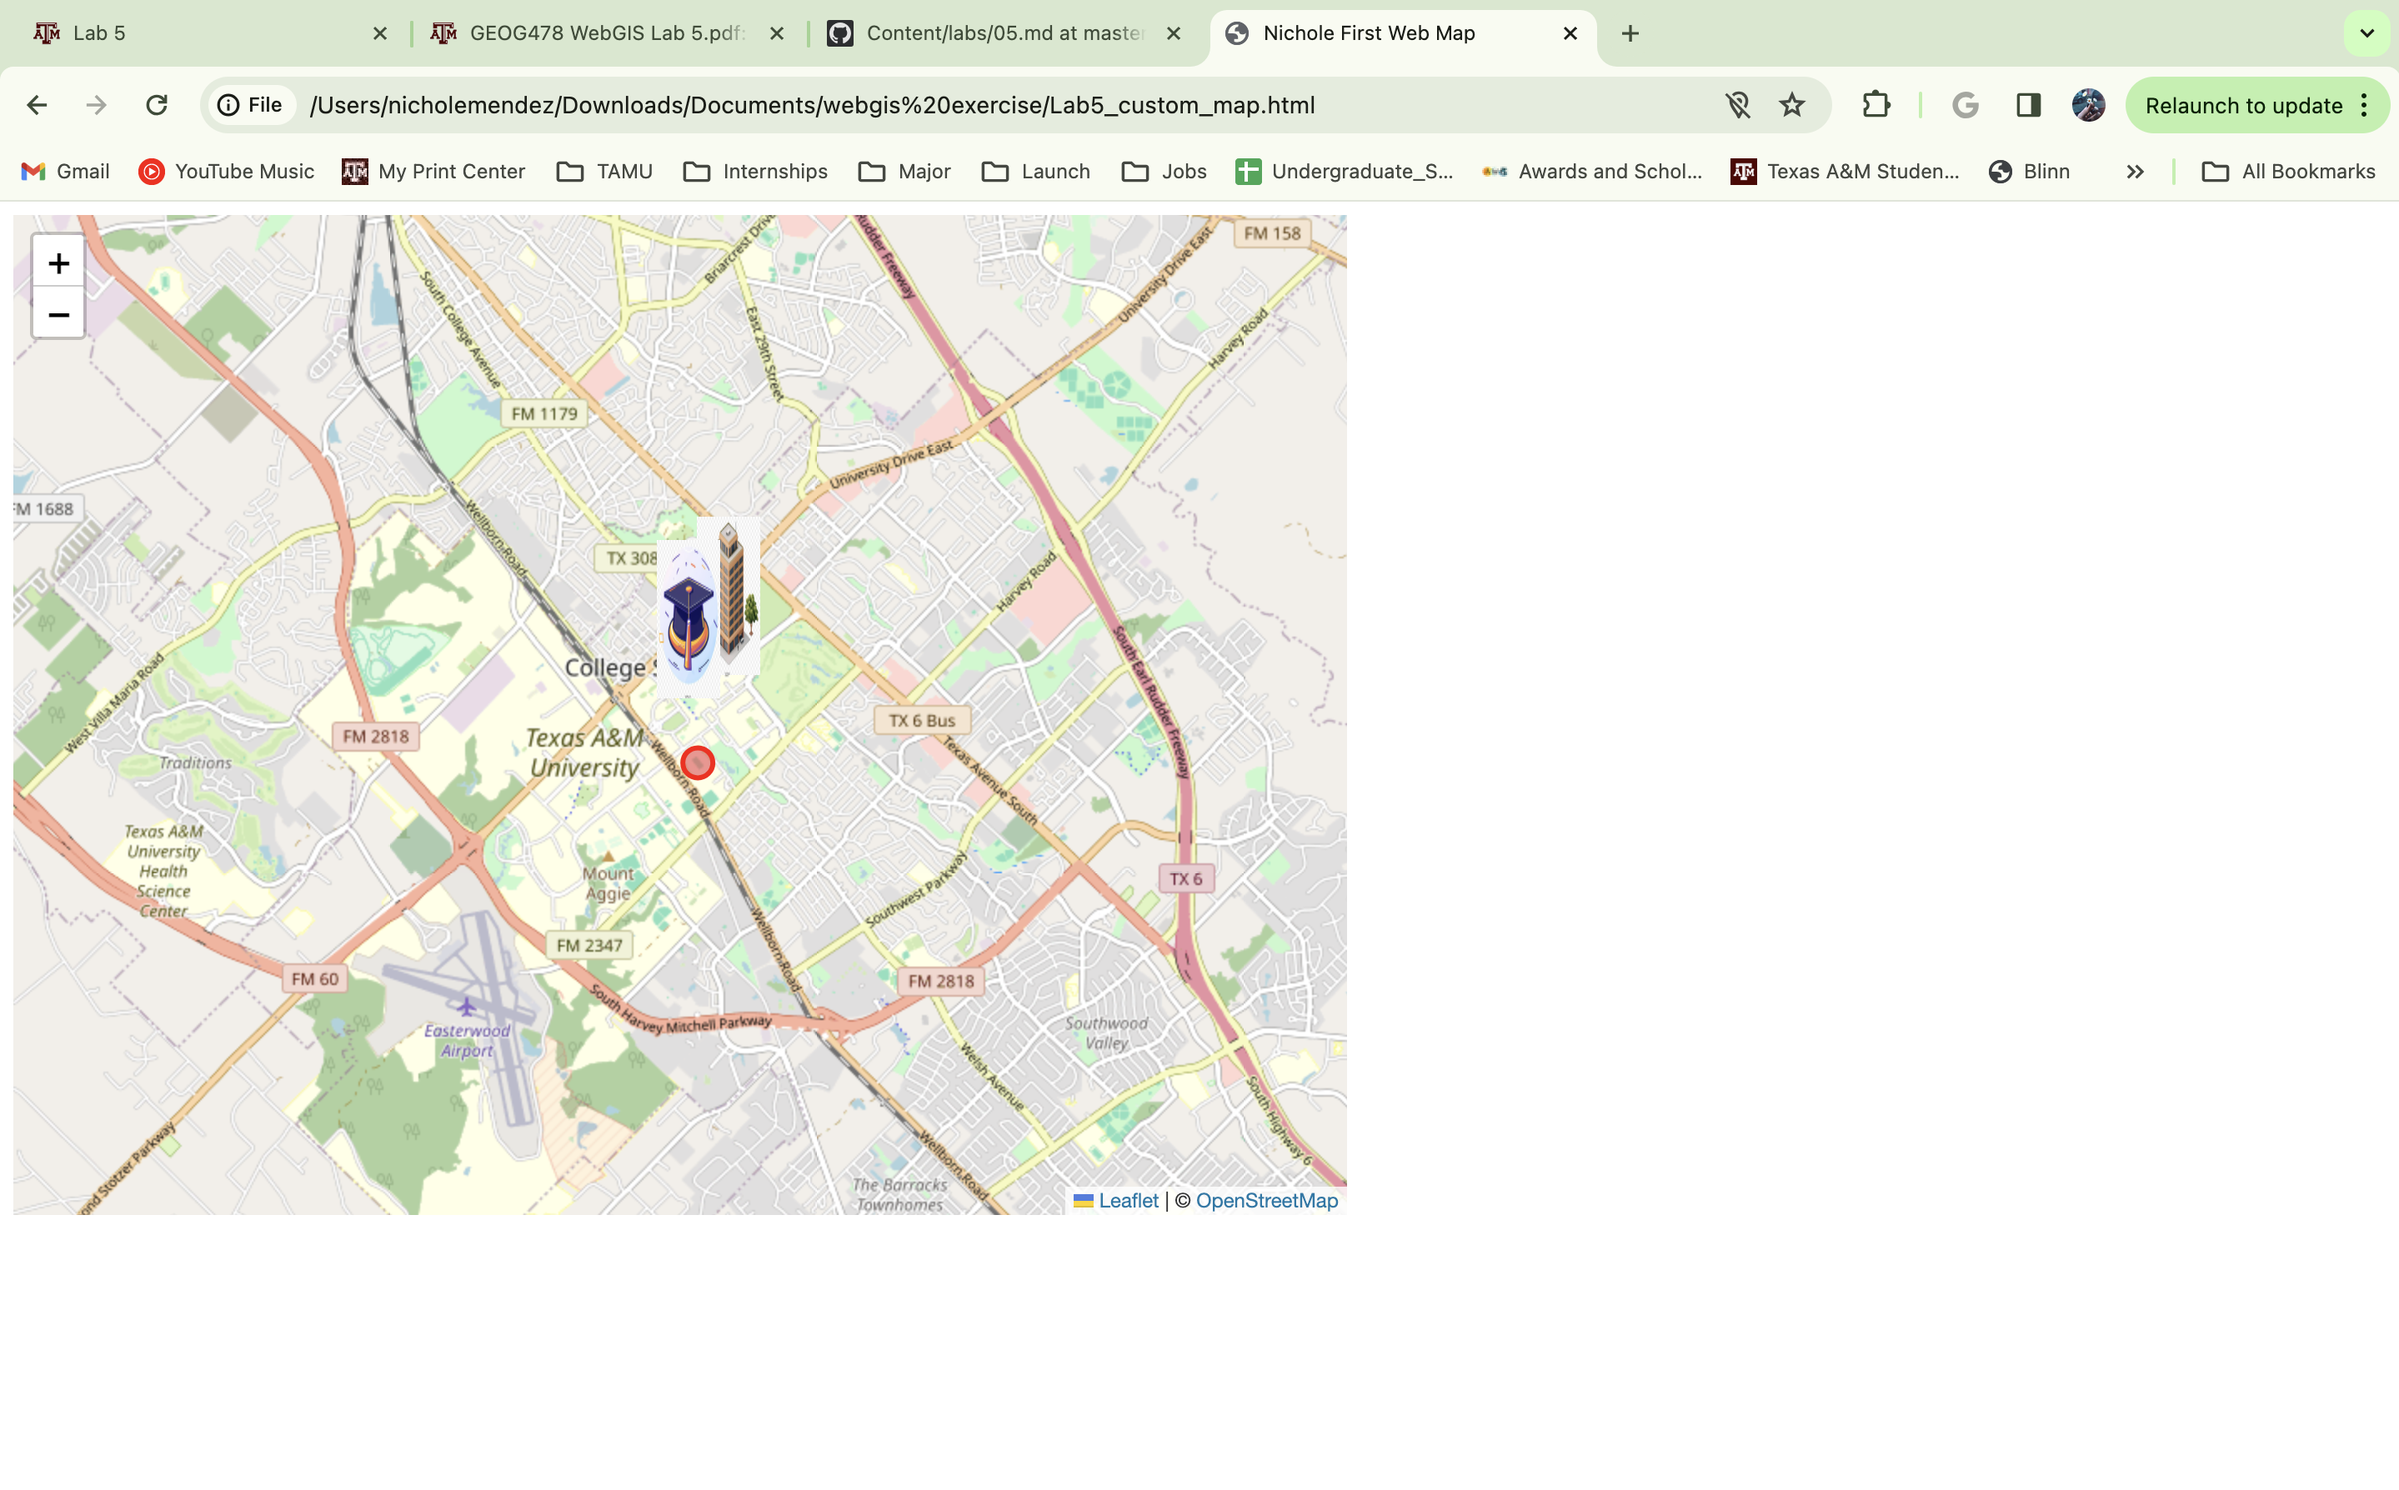
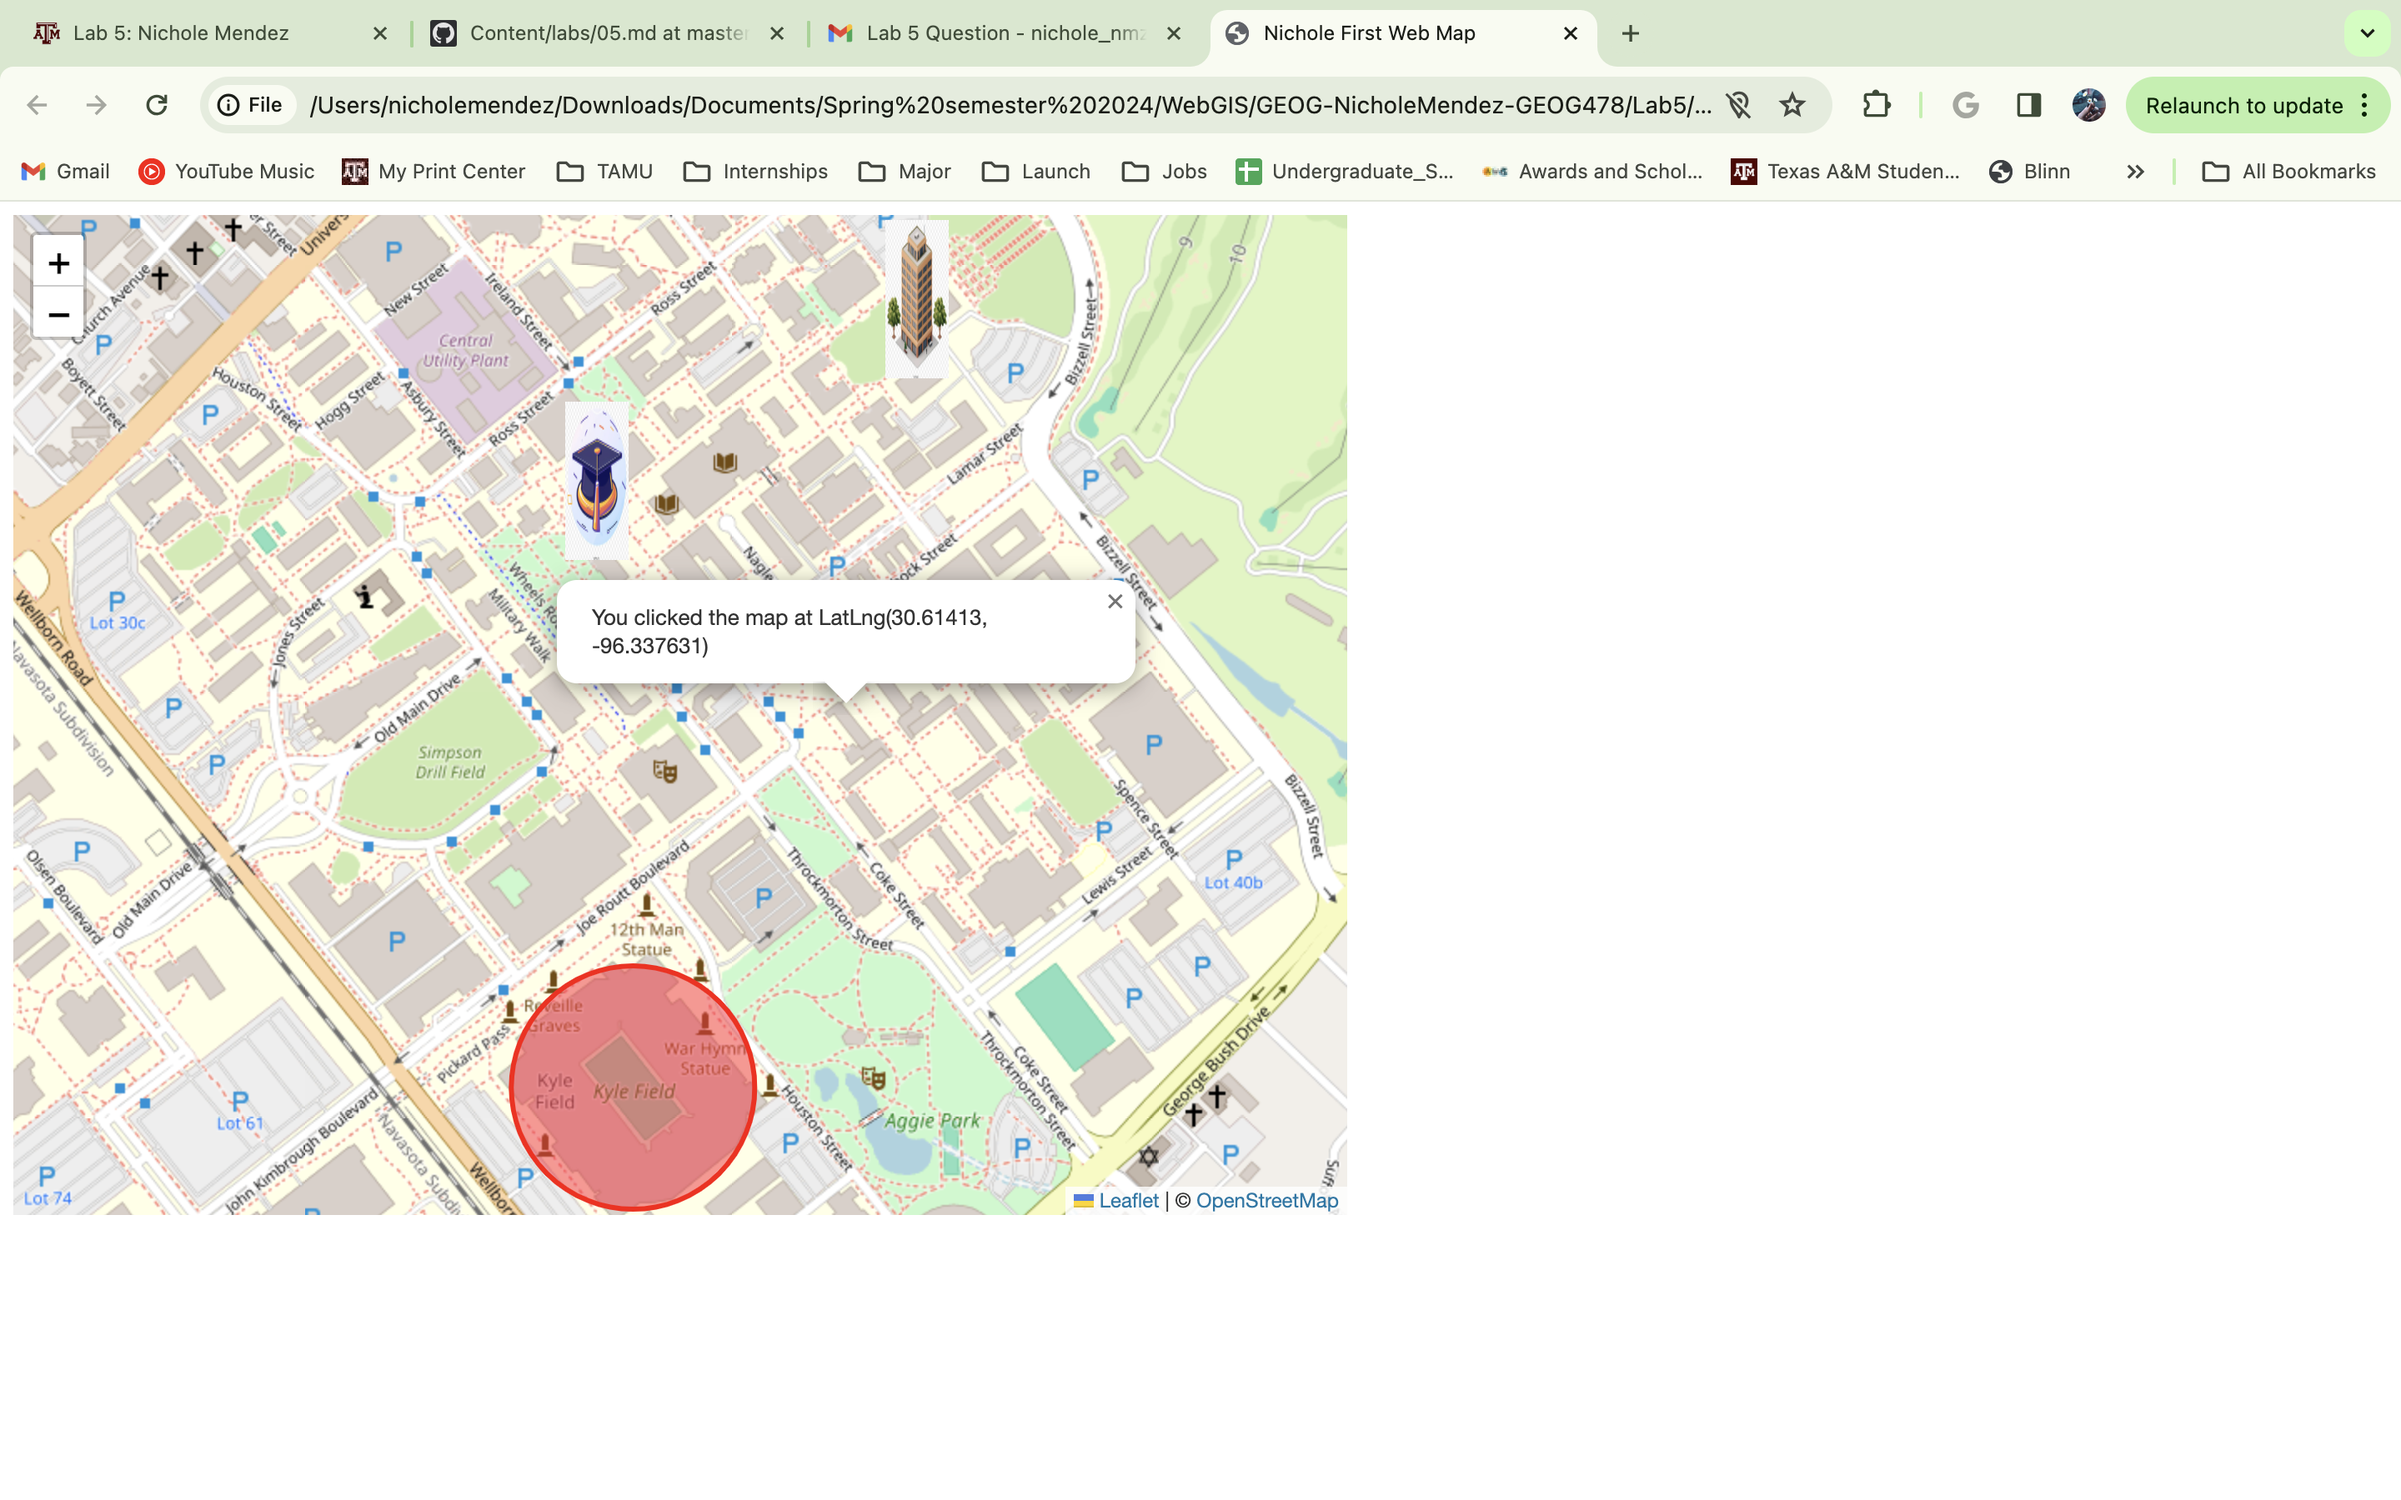
Lab5

diff --git a/Lab5/Lab5Tutorial3.html b/Lab5/Lab5Tutorial3.html
@@ -22,10 +22,10 @@
     </style>
 
     <script>
-        var map = L.map('map').fitWorld();
-        L.tileLayer('https://tile.openstreetmap.org/{z}/{x}/{y}.png', {
-            maxZoom: 19,
-            attribution: '&copy; <a href="http://www.openstreetmap.org/copyright">OpenStreetMap</a>'
+        var map = L.map('map').setView([51.505, -0.09], 13);
+        var layer = new L.tileLayer('https://tile.openstreetmap.org/{z}/{x}/{y}.png', {
+         maxZoom: 19,
+         attribution: '&copy; <a href="http://www.openstreetmap.org/copyright">OpenStreetMap</a>'
         }).addTo(map);
 
         var greenIcon = L.icon({
@@ -52,9 +52,9 @@
             }
         });
 
-        var greenIcon = new LeafIcon({iconUrl: 'https://image.similarpng.com/very-thumbnail/2021/05/Realistic-Green-leaf-on-transparent-PNG.png'}),
-            redIcon = new LeafIcon({iconUrl: 'https://encrypted-tbn0.gstatic.com/images?q=tbn:ANd9GcSWcg3Y_wjWzo3ZxK-ehVwakAE9KwSLDOQuYg&usqp=CAU'}),
-            orangeIcon = new LeafIcon({iconUrl: 'https://png.pngtree.com/png-clipart/20211129/ourmid/pngtree-dark-orange-leaves-png-image_4043486.png'});
+        var greenIcon = new LeafIcon({iconUrl: 'leaf-green.png'}),
+                redIcon = new LeafIcon({iconUrl: 'leaf-red.png'}),
+                orangeIcon = new LeafIcon({iconUrl: 'leaf-orange.png'});
 
         L.icon = function (options) {
             return new L.Icon(options);

diff --git a/Lab5/Lab5_custom_map.html b/Lab5/Lab5_custom_map.html
@@ -42,14 +42,14 @@
         
        // O&M and Academic Building
     var greenIcon = L.icon({
-        iconUrl: 'https://banner2.cleanpng.com/20240311/ava/transparent-office-building-building-architecture-brick-stone-brick-building-with-multiple-floors-and-trees65ef03e9e1dc27.3552153217101629219251.jpg',
+        iconUrl: 'building.PNG',
         iconSize:     [38, 95], // size of the icon
         iconAnchor:   [22, 94], // point of the icon which will correspond to marker's location
         popupAnchor:  [-3, -76] // point from which the popup should open relative to the iconAnchor
     });
 
     var redIcon = L.icon({
-        iconUrl: 'https://banner2.cleanpng.com/20240311/awk/transparent-graduation-cap-graduation-cap-in-glass-bubble-with-blue-tassel65eed04796b446.5492375217101497036173.jpg',
+        iconUrl: 'gradcap.PNG',
         iconSize:     [38, 95], // size of the icon
         iconAnchor:   [22, 94], // point of the icon which will correspond to marker's location
         popupAnchor:  [-3, -76] // point from which the popup should open relative to the iconAnchor
